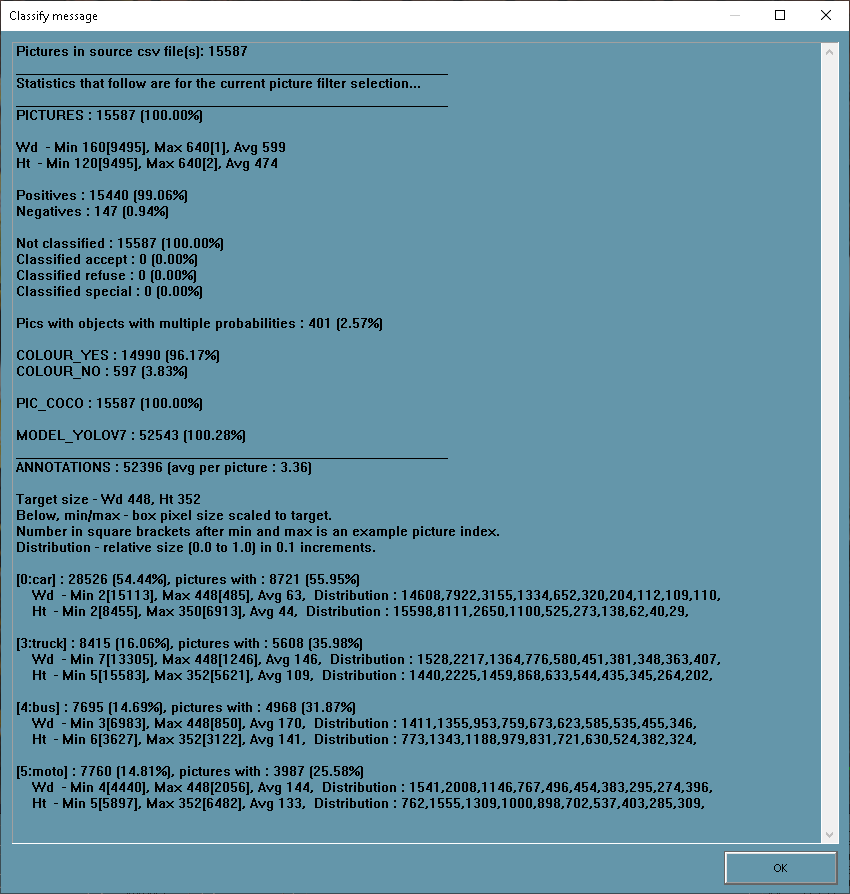
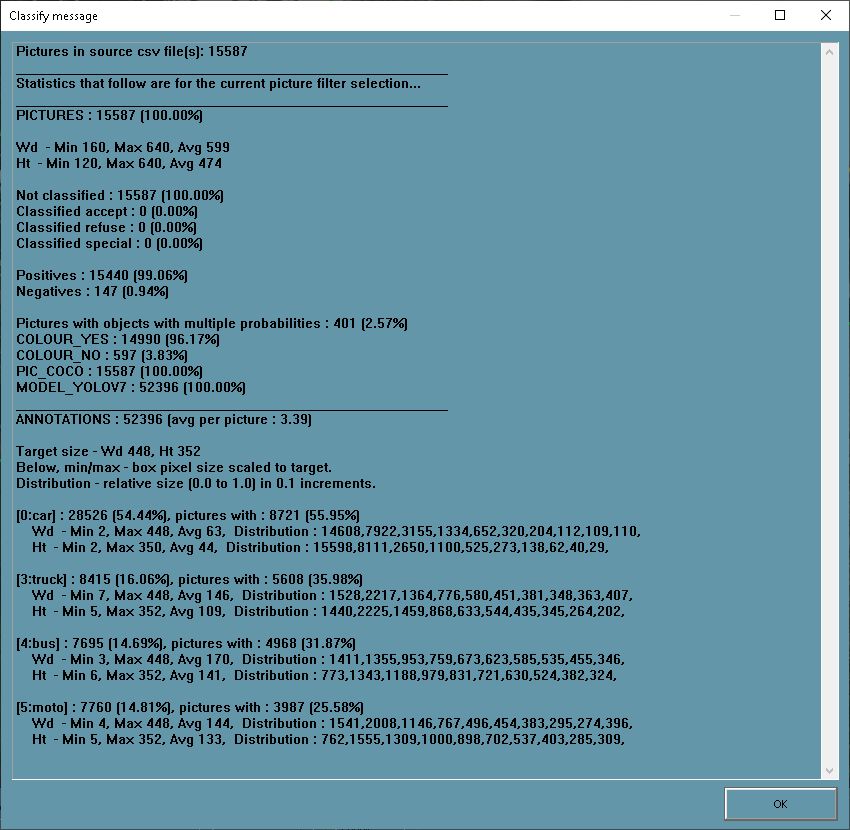
statistics display improved

Changed region(s): [[0.0, 0.0, 1.0, 0.9036], [0.0306, 0.9337, 1.0, 0.994]]

diff --git a/YoloExportDlg.cpp b/YoloExportDlg.cpp
@@ -499,8 +499,12 @@ static char *GetMMAString(MINMAXAVG *pMMA)
 {
 	static char Str[128];
 	double Av = pMMA->Avg / (double)pMMA->Num;
-	int NotZeroBased = 1;	// index displayed in UI is one-based, hence added one to the indexes.
-	sprintf_s(Str, num_entries(Str), " - Min %d[%d], Max %d[%d], Avg %d", (int)pMMA->Min, pMMA->Min_PicIdx+NotZeroBased, (int)pMMA->Max, pMMA->Max_PicIdx+NotZeroBased, (int)Av);
+
+//	int NotZeroBased = 1;	// index displayed in UI is one-based, hence added one to the indexes.
+//	sprintf_s(Str, num_entries(Str), " - Min %d[%d], Max %d[%d], Avg %d", (int)pMMA->Min, pMMA->Min_PicIdx+NotZeroBased, (int)pMMA->Max, pMMA->Max_PicIdx+NotZeroBased, (int)Av);
+
+	// i've removed Min_PicIdx and Max_PicIdx from the string now, I added this before pic filters and sorting was in place, so its not necessary anymore, and looks confusing in the stats display.
+	sprintf_s(Str, num_entries(Str), " - Min %d, Max %d, Avg %d", (int)pMMA->Min, (int)pMMA->Max, (int)Av);
 	return Str;
 }
 
@@ -555,11 +559,10 @@ void CYoloExportDlg::LoadStatistics(STATISTICS &stats, BOOL UseAnnotationFilter)
 #endif
 			{
 				PicHasAnnotations = 1;
-
-				if(pLne->Model_Code < MODELCODE::MODEL_NUM_ENTRIES)
-					stats.Cnt.ModelCode[pLne->Model_Code]++;
-
 				if(pLne->ClassId >= 0){	// because a negative picture has class id = -1
+
+					if(pLne->Model_Code < MODELCODE::MODEL_NUM_ENTRIES)
+						stats.Cnt.ModelCode[pLne->Model_Code]++;
 					ClassInPic[pLne->ClassId] = 1;
 					CLASS_STATS *pClassStats = &stats.Class[pLne->ClassId];
 					pClassStats->Count++;
@@ -576,7 +579,7 @@ void CYoloExportDlg::LoadStatistics(STATISTICS &stats, BOOL UseAnnotationFilter)
 						dp = min(dp, DISTRIBUTION_COUNT-1);
 						pClassStats->Distribution_W[dp]++;
 					}
-					stats.Cnt.Annotations++;
+					stats.Cnt.PositiveAnnotations++; // positive annotations, i.e. it does not include negatives
 				}
 			}
 		}
@@ -587,8 +590,8 @@ void CYoloExportDlg::LoadStatistics(STATISTICS &stats, BOOL UseAnnotationFilter)
 			for(int c=0; c<_MAX_CLASSES_; c++)
 				if(ClassInPic[c]) stats.Class[c].OnePerPicCount++;
 
-			if(pFnG->pClsfdLines[0].ClassId < 0) stats.Cnt.Negative++;
-			else stats.Cnt.Positive++;
+			if(pFnG->pClsfdLines[0].ClassId < 0) stats.Cnt.NegativePics++;
+			else stats.Cnt.PositivePics++;
 
 			if(pFnG->pPicInfo->ColourCode < COLOURCODE::COLOUR_NUM_ENTRIES)
 				stats.Cnt.ColourCode[pFnG->pPicInfo->ColourCode]++;
@@ -609,9 +612,7 @@ void CYoloExportDlg::StatisticsPopup(BOOL UseAnnotationFilter)
 
 		STATISTICS stats={0};
 		LoadStatistics(stats, UseAnnotationFilter);
-
 		CString Str, add;
-		float avgapp = (float)stats.Cnt.Annotations / (float)stats.Cnt.Pictures;
 
 		Str.Format("Pictures in source csv file(s): %d\r\n______________________________________________________\r\nStatistics that follow are for the current picture filter selection...\r\n______________________________________________________\r\nPICTURES : %d (%.2f%%)\r\n", 
 			m_NumSourceFilenameGroups, stats.Cnt.Pictures, MakePercentage(stats.Cnt.Pictures, m_NumSourceFilenameGroups));
@@ -619,9 +620,9 @@ void CYoloExportDlg::StatisticsPopup(BOOL UseAnnotationFilter)
 		Str += add;
 		add.Format("\r\nHt %s", GetMMAString(&stats.PicHt));
 		Str += add;
-		add.Format("\r\n\r\nPositives : %d (%.2f%%)\r\nNegatives : %d (%.2f%%)\r\n\r\nNot classified : %d (%.2f%%)\r\nClassified accept : %d (%.2f%%)\r\nClassified refuse : %d (%.2f%%)\r\nClassified special : %d (%.2f%%)\r\n\r\nPics with objects with multiple probabilities : %d (%.2f%%)\r\n", 
-			stats.Cnt.Positive, MakePercentage(stats.Cnt.Positive, stats.Cnt.Pictures), stats.Cnt.Negative, MakePercentage(stats.Cnt.Negative, stats.Cnt.Pictures), 
+		add.Format("\r\n\r\nNot classified : %d (%.2f%%)\r\nClassified accept : %d (%.2f%%)\r\nClassified refuse : %d (%.2f%%)\r\nClassified special : %d (%.2f%%)\r\n\r\nPositives : %d (%.2f%%)\r\nNegatives : %d (%.2f%%)\r\n\r\nPictures with objects with multiple probabilities : %d (%.2f%%)", 
 			stats.Cnt.NotClsfd, MakePercentage(stats.Cnt.NotClsfd, stats.Cnt.Pictures), stats.Cnt.Accept, MakePercentage(stats.Cnt.Accept, stats.Cnt.Pictures), stats.Cnt.Refuse, MakePercentage(stats.Cnt.Refuse, stats.Cnt.Pictures), stats.Cnt.Special, MakePercentage(stats.Cnt.Special, stats.Cnt.Pictures),
+			stats.Cnt.PositivePics, MakePercentage(stats.Cnt.PositivePics, stats.Cnt.Pictures), stats.Cnt.NegativePics, MakePercentage(stats.Cnt.NegativePics, stats.Cnt.Pictures), 
 			stats.Cnt.MultipleProbsPics, MakePercentage(stats.Cnt.MultipleProbsPics, stats.Cnt.Pictures));
 		Str += add;
 		int i;
@@ -631,17 +632,17 @@ void CYoloExportDlg::StatisticsPopup(BOOL UseAnnotationFilter)
 				Str += add;
 			}
 		}
-		Str += "\r\n";
+		//Str += "\r\n";
 		for(i=0; i<PICTURECODE::PIC_NUM_ENTRIES; i++){
 			if(stats.Cnt.PictureCode[i] > 0){
 				add.Format("\r\n%s : %d (%.2f%%)", g_pPictureCode[i], stats.Cnt.PictureCode[i], MakePercentage(stats.Cnt.PictureCode[i], stats.Cnt.Pictures));
 				Str += add;
 			}
 		}
-		Str += "\r\n";
+		//Str += "\r\n";
 		for(i=0; i<MODELCODE::MODEL_NUM_ENTRIES; i++){
 			if(stats.Cnt.ModelCode[i] > 0){
-				add.Format("\r\n%s : %d (%.2f%%)", g_pModelCode[i], stats.Cnt.ModelCode[i], MakePercentage(stats.Cnt.ModelCode[i], stats.Cnt.Annotations));
+				add.Format("\r\n%s : %d (%.2f%%)", g_pModelCode[i], stats.Cnt.ModelCode[i], MakePercentage(stats.Cnt.ModelCode[i], stats.Cnt.PositiveAnnotations));
 				Str += add;
 			}
 		}
@@ -649,13 +650,17 @@ void CYoloExportDlg::StatisticsPopup(BOOL UseAnnotationFilter)
 		if(m_TargetWd<=0.0f || m_TargetHt<=0.0f)
 			pWarn = "\r\n\r\n***SET TARGET DIMENSIONS IN Options DIALOG***\r\n\r\n";
 
-		add.Format("\r\n______________________________________________________\r\nANNOTATIONS : %d (avg per picture : %.2f)\r\n\r\nTarget size - Wd %d, Ht %d%s\r\n", stats.Cnt.Annotations, avgapp, (int)m_TargetWd, (int)m_TargetHt, pWarn);
+		float AvgAnnosPerPic = 0.0f; // avg annotations per picture excludes negatives, so if all pictures are negatives then avg annotations per picture will be zero.
+		if(stats.Cnt.PositivePics > 0)
+			AvgAnnosPerPic = (float)stats.Cnt.PositiveAnnotations / (float)stats.Cnt.PositivePics;
+
+		add.Format("\r\n______________________________________________________\r\nANNOTATIONS : %d (avg per picture : %.2f)\r\n\r\nTarget size - Wd %d, Ht %d%s\r\n", stats.Cnt.PositiveAnnotations, AvgAnnosPerPic, (int)m_TargetWd, (int)m_TargetHt, pWarn);
 		Str += add;
-		Str += "Below, min/max - box pixel size scaled to target.\r\nNumber in square brackets after min and max is an example picture index.\r\nDistribution - relative size (0.0 to 1.0) in 0.1 increments.";
+		Str += "Below, min/max - box pixel size scaled to target.\r\nDistribution - relative size (0.0 to 1.0) in 0.1 increments.";
 		CLASS_STATS *pClassStats = stats.Class;
 		for(i=0; i<_MAX_CLASSES_; i++, pClassStats++){
 			if(pClassStats->Count > 0){
-				add.Format("\r\n\r\n[%d:%s] : %d (%.2f%%), pictures with : %d (%.2f%%)", i, g_CIdM.GetLabel(i), pClassStats->Count, MakePercentage(pClassStats->Count, stats.Cnt.Annotations), pClassStats->OnePerPicCount, MakePercentage(pClassStats->OnePerPicCount, stats.Cnt.Pictures));
+				add.Format("\r\n\r\n[%d:%s] : %d (%.2f%%), pictures with : %d (%.2f%%)", i, g_CIdM.GetLabel(i), pClassStats->Count, MakePercentage(pClassStats->Count, stats.Cnt.PositiveAnnotations), pClassStats->OnePerPicCount, MakePercentage(pClassStats->OnePerPicCount, stats.Cnt.Pictures));
 				Str += add;
 				if(m_TargetWd>0.0f && m_TargetHt>0.0f){
 					AddSizeDistributionString("Wd", &pClassStats->Wd, pClassStats->Distribution_W, Str, add);

diff --git a/YoloExportDlg.h b/YoloExportDlg.h
@@ -34,12 +34,13 @@ struct CLASS_STATS
 
 struct STATS_COUNT
 {
-	int Pictures, Annotations, Negative, Positive;
+	int Pictures, NegativePics, PositivePics;
+	int PositiveAnnotations;
 	int MultipleProbsPics;
 	int NotClsfd, Accept, Refuse, Special;
 	int ColourCode[COLOURCODE::COLOUR_NUM_ENTRIES];
 	int PictureCode[PICTURECODE::PIC_NUM_ENTRIES];
-	int ModelCode[MODELCODE::MODEL_NUM_ENTRIES];
+	int ModelCode[MODELCODE::MODEL_NUM_ENTRIES]; // positive annotation count per model.
 };
 
 struct STATISTICS
